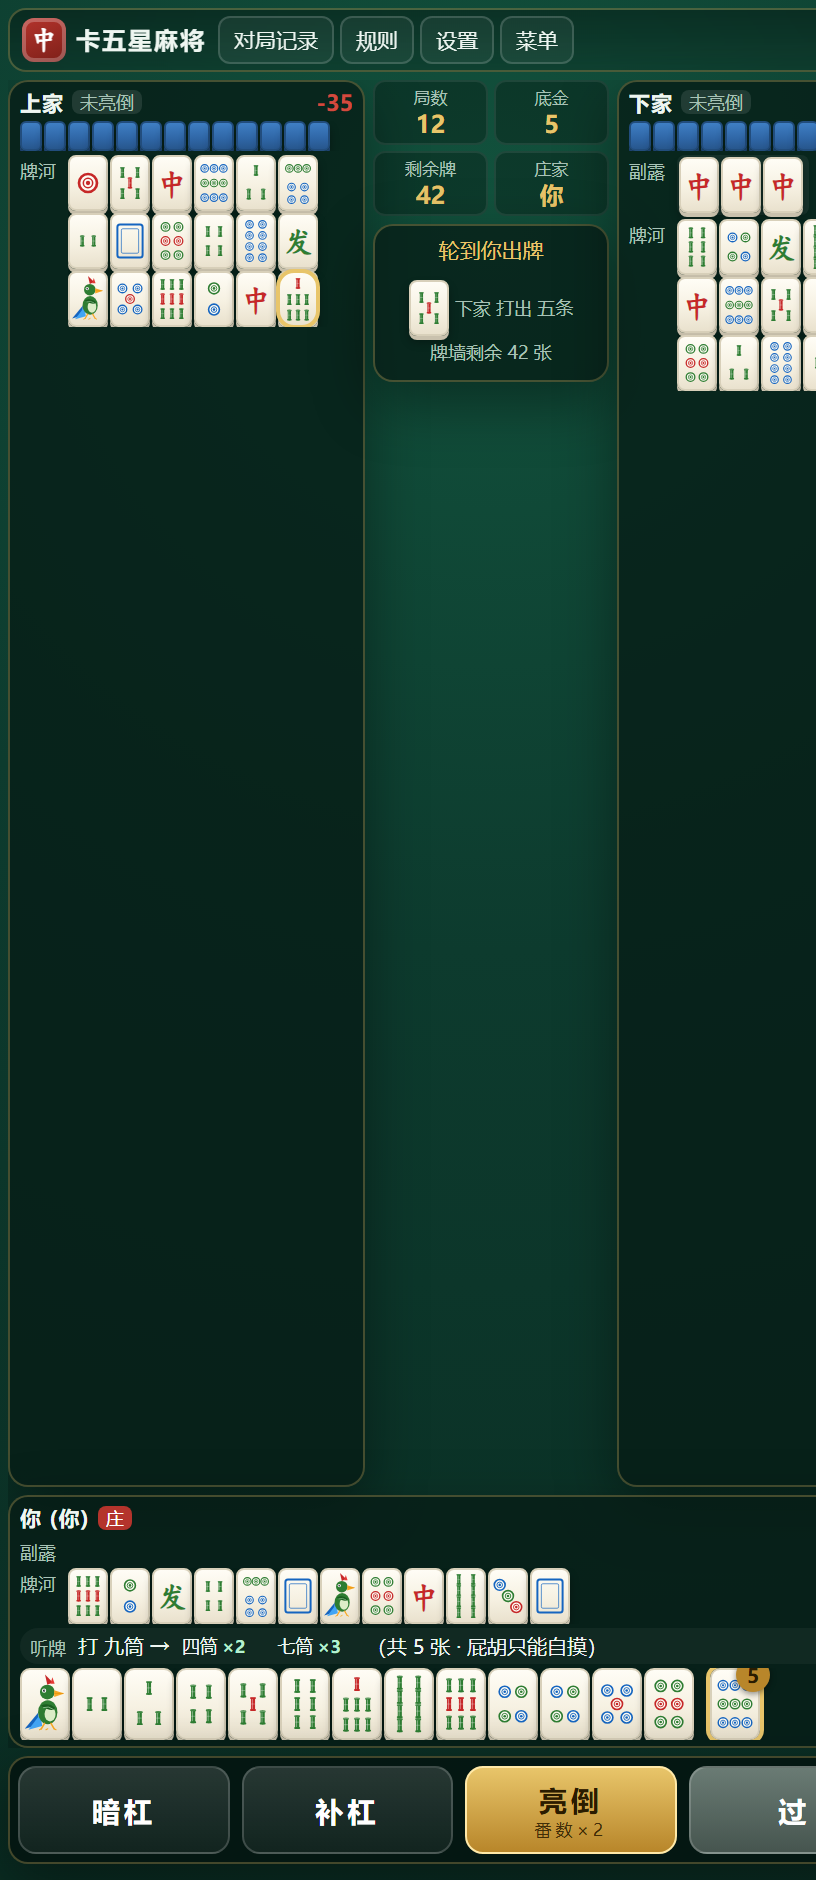
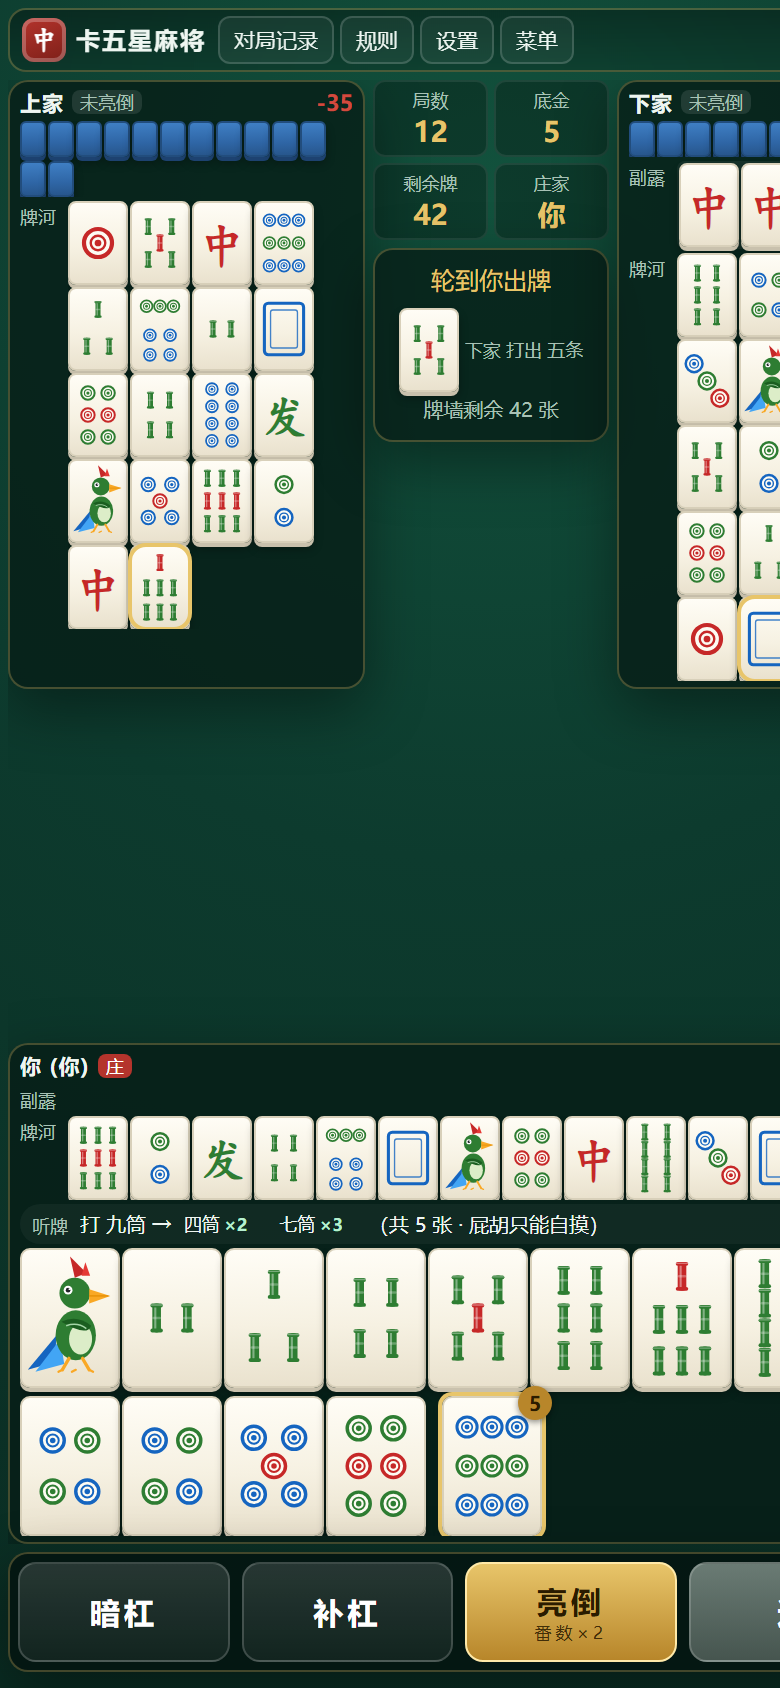
竖屏样张：手牌改两行（50x70）+ 面板收紧、把空间用起来
- 竖屏手牌默认两行（7+7，一张 50x70，是单行 25px 的两倍大），仍可在样张设置里切回单行档
- 竖屏对手面板改为按内容定高（牌河最多 6 行），不再被拉成一整屏空白
- 竖牌河放大到 30x42，自己的牌河 3 行；四个方框字号加大
- 竖屏自己那块贴底（align-self:end），中间留出的桌面约 80~180px
- 实测（无头 Chrome 390x844 / 844x390）：竖屏 顶栏32 + 面板305 + 自己251 + 操作栏58；
  横屏 顶栏32 + 对手栏148 + 自己136 + 操作栏54
- 四张评审截图重拍（preview/shots/）；44 项结构断言 + 引擎 41 项全过

diff --git a/tests/preview.smoke.js b/tests/preview.smoke.js
@@ -140,7 +140,9 @@ async function check(name, file) {
     assert(badge, '刚摸的那张应有角标');
     eq(badge.textContent, '5', '角标数字（四筒×2 + 七筒×3）');
     assert(badge.classList.contains('warn'), '屁胡角标应是金色 warn');
-    assert(hand.classList.contains('compact'), '默认应是紧凑档');
+    // 竖屏默认两行（用户选定），横屏默认单行紧凑
+    assert(hand.classList.contains(isPortrait ? 'two-rows' : 'compact'),
+      (isPortrait ? '竖屏默认应是两行档' : '横屏默认应是紧凑档') + '，实际 ' + hand.className);
   });
 
   test('听牌行：写清「打 九筒 → 听 四筒×2、七筒×3（共 5 张 · 屁胡只能自摸）」', () => {

diff --git a/preview/preview.js b/preview/preview.js
@@ -87,7 +87,9 @@
   function clear(host) { if (host) host.innerHTML = ''; }
 
   /* ---------- 展示状态（只影响样张） ---------- */
-  var view = { state: 'normal', handSize: 'compact', river: 'full' };
+  // 竖屏默认两行手牌（用户选定），横屏单行
+  var isPortraitPage = document.body.className.indexOf('portrait') >= 0;
+  var view = { state: 'normal', handSize: isPortraitPage ? 'twoRows' : 'compact', river: 'full' };
   // 支持用链接参数直接看某个状态，方便截图核对：?state=danger&hand=big&river=short
   var qs = location.search || '';
   var qm = /[?&]state=(normal|danger|selfLd)/.exec(qs);
